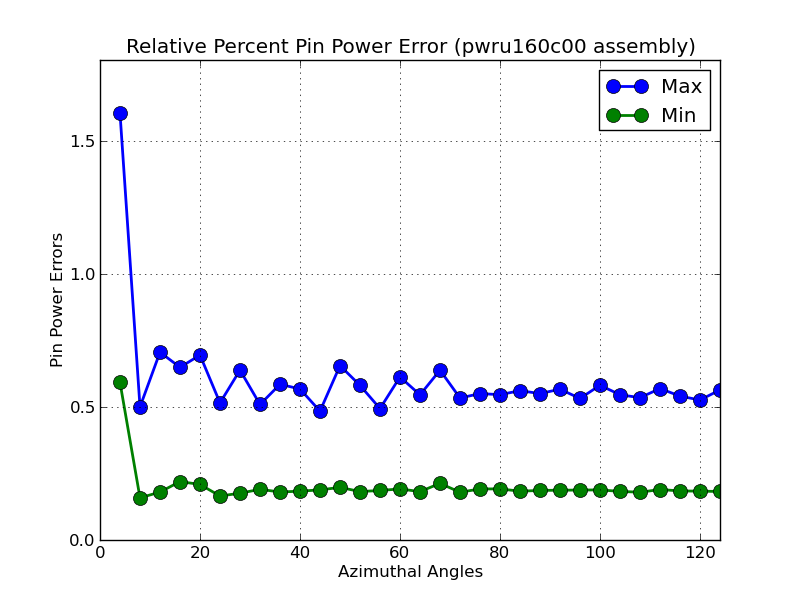
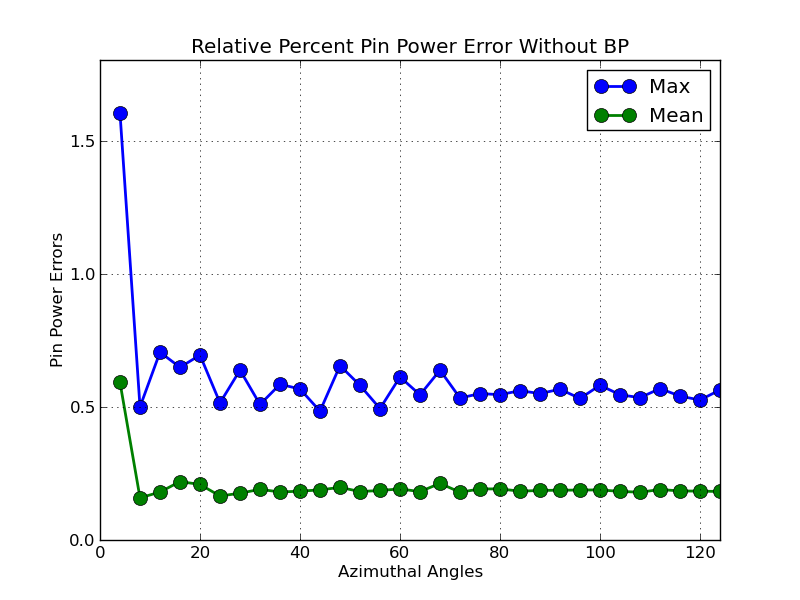
pulled data from cluster, tests dont work

Changed region(s): [[0.1562, 0.06, 0.875, 0.09], [0.7188, 0.12, 0.875, 0.24]]

diff --git a/studies/Data-Analyzer-2.py b/studies/Data-Analyzer-2.py
@@ -1,0 +1,132 @@
+import h5py
+import numpy
+from tester import *
+
+assembly1 = 'pwru160c00'
+assembly2 = 'pwru240w12'
+
+f = h5py.File('results/' + assembly1 + '-errors.h5', 'r')
+keys_az = f['az'].keys()
+
+angles = numpy.zeros(len(keys_az) / 3)
+az_max_errors1 = numpy.zeros(len(keys_az) / 3)
+az_mean_errors1 = numpy.zeros(len(keys_az) / 3)
+az_kinf_errors1 = numpy.zeros(len(keys_az) / 3)
+
+for key in keys_az:
+    if "kinf" in key:
+        num_azim = int(key.strip("az_kinf_num_azim = "))
+        angles[num_azim / 4 - 1] = num_azim
+        az_kinf_errors1[num_azim / 4 - 1] = f['az'][key][...] * 10**5
+
+for key in keys_az:
+    if "max" in key:
+        num_azim = int(key.strip("az_max_num_azim = "))
+        az_max_errors1[num_azim / 4 - 1] = f['az'][key][...] * 10**2
+
+for key in keys_az:
+    if "mean" in key:
+        num_azim = int(key.strip("az_mean_num_azim = "))
+        az_mean_errors1[num_azim / 4 - 1] = f['az'][key][...] * 10**2
+
+
+keys_ts = f['ts'].keys()
+
+tracks = numpy.zeros(len(keys_ts) / 3)
+ts_max_errors1 = numpy.zeros(len(keys_ts) / 3)
+ts_mean_errors1 = numpy.zeros(len(keys_ts) / 3)
+ts_kinf_errors1 = numpy.zeros(len(keys_ts) / 3)
+counter = 0
+for key in keys_ts:
+    if "kinf" in key:
+        track_spacing = float(key.strip("ts_kinf_track_spacing = "))
+        tracks[counter] = track_spacing
+        ts_kinf_errors1[counter] = f['ts'][key][...] * 10**5
+        counter += 1
+
+counter = 0
+for key in keys_ts:
+    if "max" in key:
+        track_spacing = float(key.strip("ts_max_track_spacing = "))
+        ts_max_errors1[counter] = f['ts'][key][...] * 10**2
+        counter += 1
+
+counter = 0
+for key in keys_ts:
+    if "mean" in key:
+        track_spacing = float(key.strip("ts_mean_track_spacing = "))
+        ts_mean_errors1[counter] = f['ts'][key][...] * 10**2
+        counter += 1
+
+f.close()
+
+f = h5py.File('results/' + assembly2 + '-errors.h5', 'r')
+keys_az = f['az'].keys()
+
+az_max_errors2 = numpy.zeros(len(keys_az) / 3)
+az_mean_errors2 = numpy.zeros(len(keys_az) / 3)
+az_kinf_errors2 = numpy.zeros(len(keys_az) / 3)
+
+for key in keys_az:
+    if "kinf" in key:
+        num_azim = int(key.strip("az_kinf_num_azim = "))
+        az_kinf_errors2[num_azim / 4 - 1] = f['az'][key][...] * 10**5
+
+for key in keys_az:
+    if "max" in key:
+        num_azim = int(key.strip("az_max_num_azim = "))
+        az_max_errors2[num_azim / 4 - 1] = f['az'][key][...] * 10**2
+
+for key in keys_az:
+    if "mean" in key:
+        num_azim = int(key.strip("az_mean_num_azim = "))
+        az_mean_errors2[num_azim / 4 - 1] = f['az'][key][...] * 10**2
+
+
+keys_ts = f['ts'].keys()
+
+ts_max_errors2 = numpy.zeros(len(keys_ts) / 3)
+ts_mean_errors2 = numpy.zeros(len(keys_ts) / 3)
+ts_kinf_errors2 = numpy.zeros(len(keys_ts) / 3)
+counter = 0
+for key in keys_ts:
+    if "kinf" in key:
+        track_spacing = float(key.strip("ts_kinf_track_spacing = "))
+        ts_kinf_errors2[counter] = f['ts'][key][...] * 10**5
+        counter += 1
+
+counter = 0
+for key in keys_ts:
+    if "max" in key:
+        track_spacing = float(key.strip("ts_max_track_spacing = "))
+        ts_max_errors2[counter] = f['ts'][key][...] * 10**2
+        counter += 1
+
+counter = 0
+for key in keys_ts:
+    if "mean" in key:
+        track_spacing = float(key.strip("ts_mean_track_spacing = "))
+        ts_mean_errors2[counter] = f['ts'][key][...] * 10**2
+        counter += 1
+
+f.close()
+
+
+
+plotter([angles, angles], [az_kinf_errors1, az_kinf_errors2], "Azimuthal Angle Convergence Study", \
+"Azimuthal Angles", "Error in K-effective [pcm]", max(angles), max(az_kinf_errors1) + 10, "kinf-angles.png", 2, legend = ['Without BP', 'With BP'])
+
+plotter([angles, angles], [az_max_errors1, az_mean_errors1], "Relative Percent Pin Power Error Without BP", \
+"Azimuthal Angles", "Pin Power Errors", max(angles), max(az_max_errors1) + .2, assembly1 + "-powers-angles.png", 2, legend = ['Max', 'Mean'])
+
+plotter([angles, angles], [az_max_errors2, az_mean_errors2], "Relative Percent Pin Power Error With BP", \
+"Azimuthal Angles", "Pin Power Errors", max(angles), max(az_max_errors2) + .2, assembly2 + "-powers-angles.png", 2, legend = ['Max', 'Mean'])
+
+plotter([tracks,tracks], [ts_kinf_errors1, ts_kinf_errors2], "Track Spacing Convergence Study", \
+"Track Spacing", "Error in K-effective [pcm]", max(tracks), max(ts_kinf_errors1) + 10, "kinf-tracks.png", 2, legend = ['Without BP', 'With BP'])
+
+plotter([tracks, tracks], [ts_max_errors1, ts_mean_errors1], "Relative Percent Pin Power Error Without BP", \
+"Track Spacing", "Pin Power Errors", max(tracks), max(ts_max_errors1) + .2, assembly1 + "-powers-tracks.png", 2, legend = ['Max', 'Mean'])
+
+plotter([tracks, tracks], [ts_max_errors2, ts_mean_errors2], "Relative Percent Pin Power Error With BP", \
+"Track Spacing", "Pin Power Errors", max(tracks), max(ts_max_errors2) + .2, assembly2 + "-powers-tracks.png", 2, legend = ['Max', 'Mean'])

diff --git a/studies/Data-Analyzer.py b/studies/Data-Analyzer.py
@@ -27,10 +27,14 @@ for key in keys_az:
         num_azim = int(key.strip("az_mean_num_azim = "))
         az_mean_errors[num_azim / 4 - 1] = f['az'][key][...] * 10**2
 
-plotter([angles], [az_kinf_errors], "Azimuthal Angle Convergence Study (" + assembly + " assembly)", \
+if assembly == 'pwru160c00':
+    bp = 'Without Burnable Poison'
+elif assembly == 'pwru240c00':
+    bp = 'With Burnable Poison'
+plotter([angles], [az_kinf_errors], "Azimuthal Angle Convergence Study " + bp, \
 "Azimuthal Angles", "Error in K-effective [pcm]", max(angles), max(az_kinf_errors) + 10, assembly + "-kinf-angles.png", 1)
 
-plotter([angles, angles], [az_max_errors, az_mean_errors], "Relative Percent Pin Power Error (" + assembly + " assembly)", \
+plotter([angles, angles], [az_max_errors, az_mean_errors], "Relative Percent Pin Power Error " + bp, \
 "Azimuthal Angles", "Pin Power Errors", max(angles), max(az_max_errors) + .2, assembly + "-powers-angles.png", 2, ['Max', 'Mean'])
 
 keys_ts = f['ts'].keys()
@@ -61,8 +65,8 @@ for key in keys_ts:
         ts_mean_errors[counter] = f['ts'][key][...] * 10**2
         counter += 1
 
-plotter([tracks], [ts_kinf_errors], "Track Spacing Convergence Study (" + assembly + " assembly)", \
+plotter([tracks], [ts_kinf_errors], "Track Spacing Convergence Study " + bp, \
 "Track Spacing", "Error in K-effective [pcm]", max(tracks), max(ts_kinf_errors) + 10, assembly + "-kinf-tracks.png", 1)
 
-plotter([tracks, tracks], [ts_max_errors, ts_mean_errors], "Relative Percent Pin Power Error (" + assembly + " assembly)", \
+plotter([tracks, tracks], [ts_max_errors, ts_mean_errors], "Relative Percent Pin Power Error " + bp, \
 "Track Spacing", "Pin Power Errors", max(tracks), max(ts_max_errors) + .2, assembly + "-powers-tracks.png", 2, ['Max', 'Mean'])
